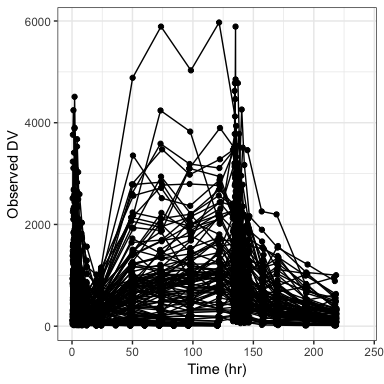
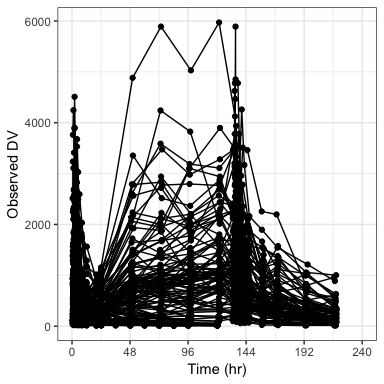
adding before testing

diff --git a/inst/examples/pmplots_complete.md b/inst/examples/pmplots_complete.md
@@ -153,6 +153,8 @@ cwresi_time(df)
 cwres_time(dat)
 ```
 
+    . Creating CWRES column from CWRESI
+
 ![](img/pmplots_complete--unnamed-chunk-6-2.png)
 
 Observed vs predicted
@@ -867,7 +869,7 @@ dv_time(df, xby=72)
 Custom breaks and limits
 
 ``` r
-a <- list(br = seq(0,240,48), limits=c(0,240))
+a <- list(breaks = seq(0,240,48), limits=c(0,240))
 dv_time(df, xs=a)
 ```
 
